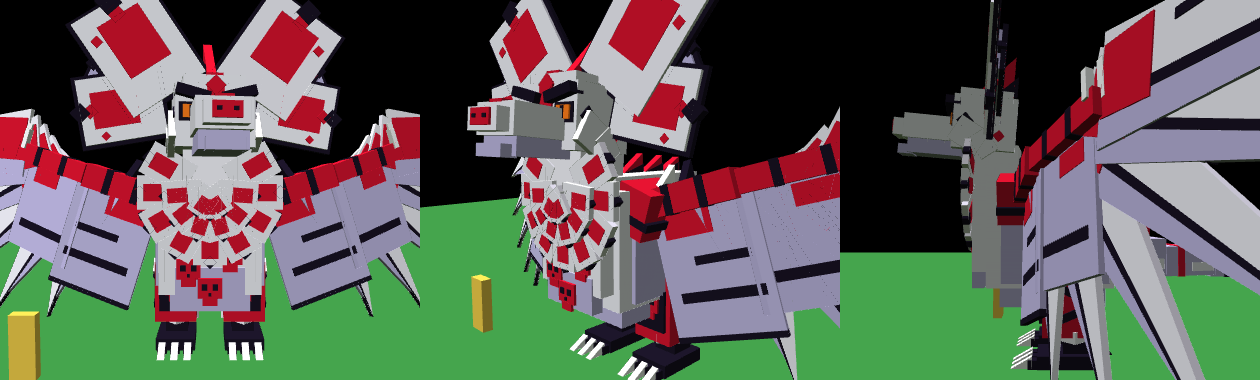
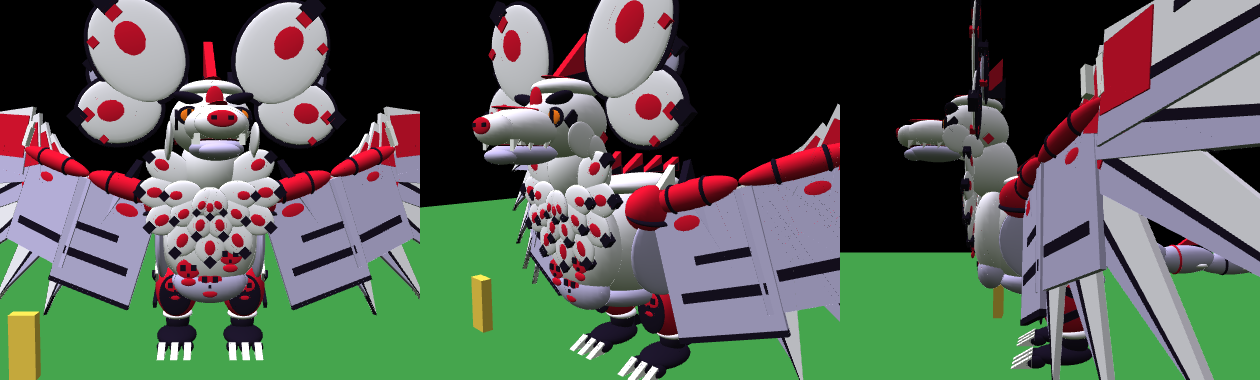
Kirasa arrondie : corps, tête, pattes, queue et pétales en ellipsoïdes
Museau plus court, détails posés sur les surfaces arrondies.

Claude-Session: https://claude.ai/code/session_011sw6tbRZPezyKej1CjFmEr

diff --git a/roblox/README.md b/roblox/README.md
@@ -1,10 +1,10 @@
 # Kirasa pour Roblox (low poly)
 
-Kirasa est construite avec environ 340 pièces Roblox (Parts et WedgeParts) : pas de mesh à importer.
+Kirasa est construite avec environ 340 pièces Roblox. Le corps, la tête, les pattes, la queue, les pétales et les collerettes sont arrondis (ellipsoïdes), et les ailes gardent leurs lames pointues : pas de mesh à importer.
 Elle est animée : **repos**, **marche**, **décollage**, **vol** (battements et vol plané), **atterrissage**.
 Au repos, elle fait des actions au hasard : **rugir** (elle ouvre la gueule), **s'étirer** (avec un bâillement), **regarder autour d'elle**, **secouer la tête**.
 
-![Aperçu : rugissement, marche, décollage, vol, atterrissage](apercu.png)
+![Aperçu : repos, rugissement, marche, vol](apercu.png)
 
 Le bloc jaune sur l'aperçu a la taille d'un avatar Roblox (5 studs).
 
